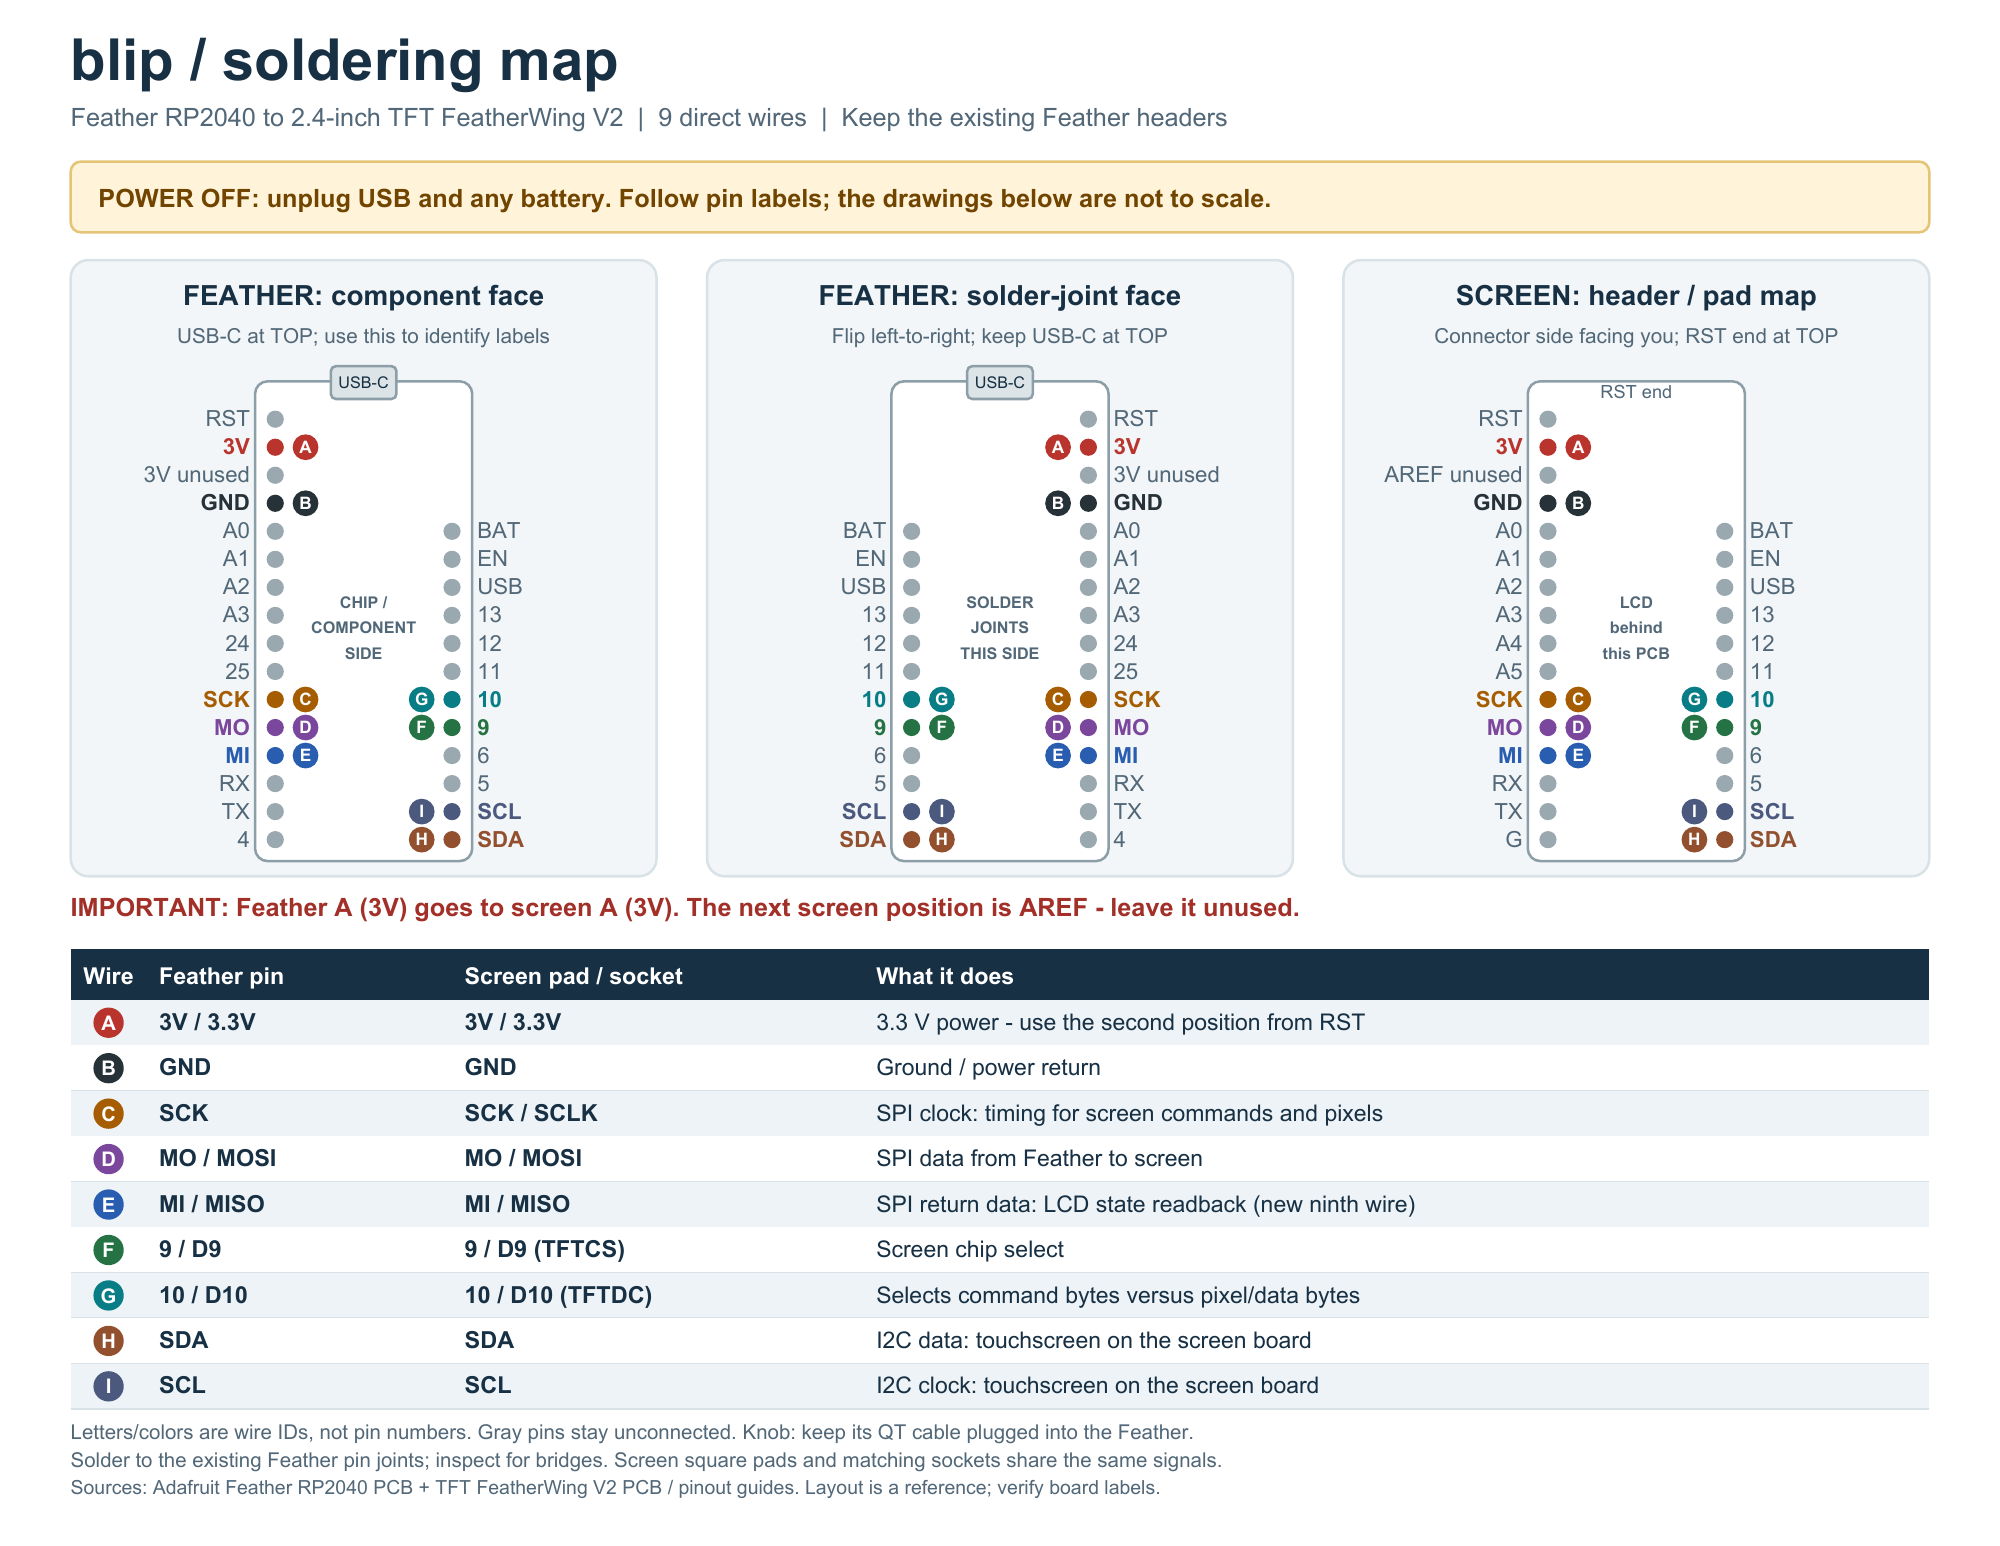
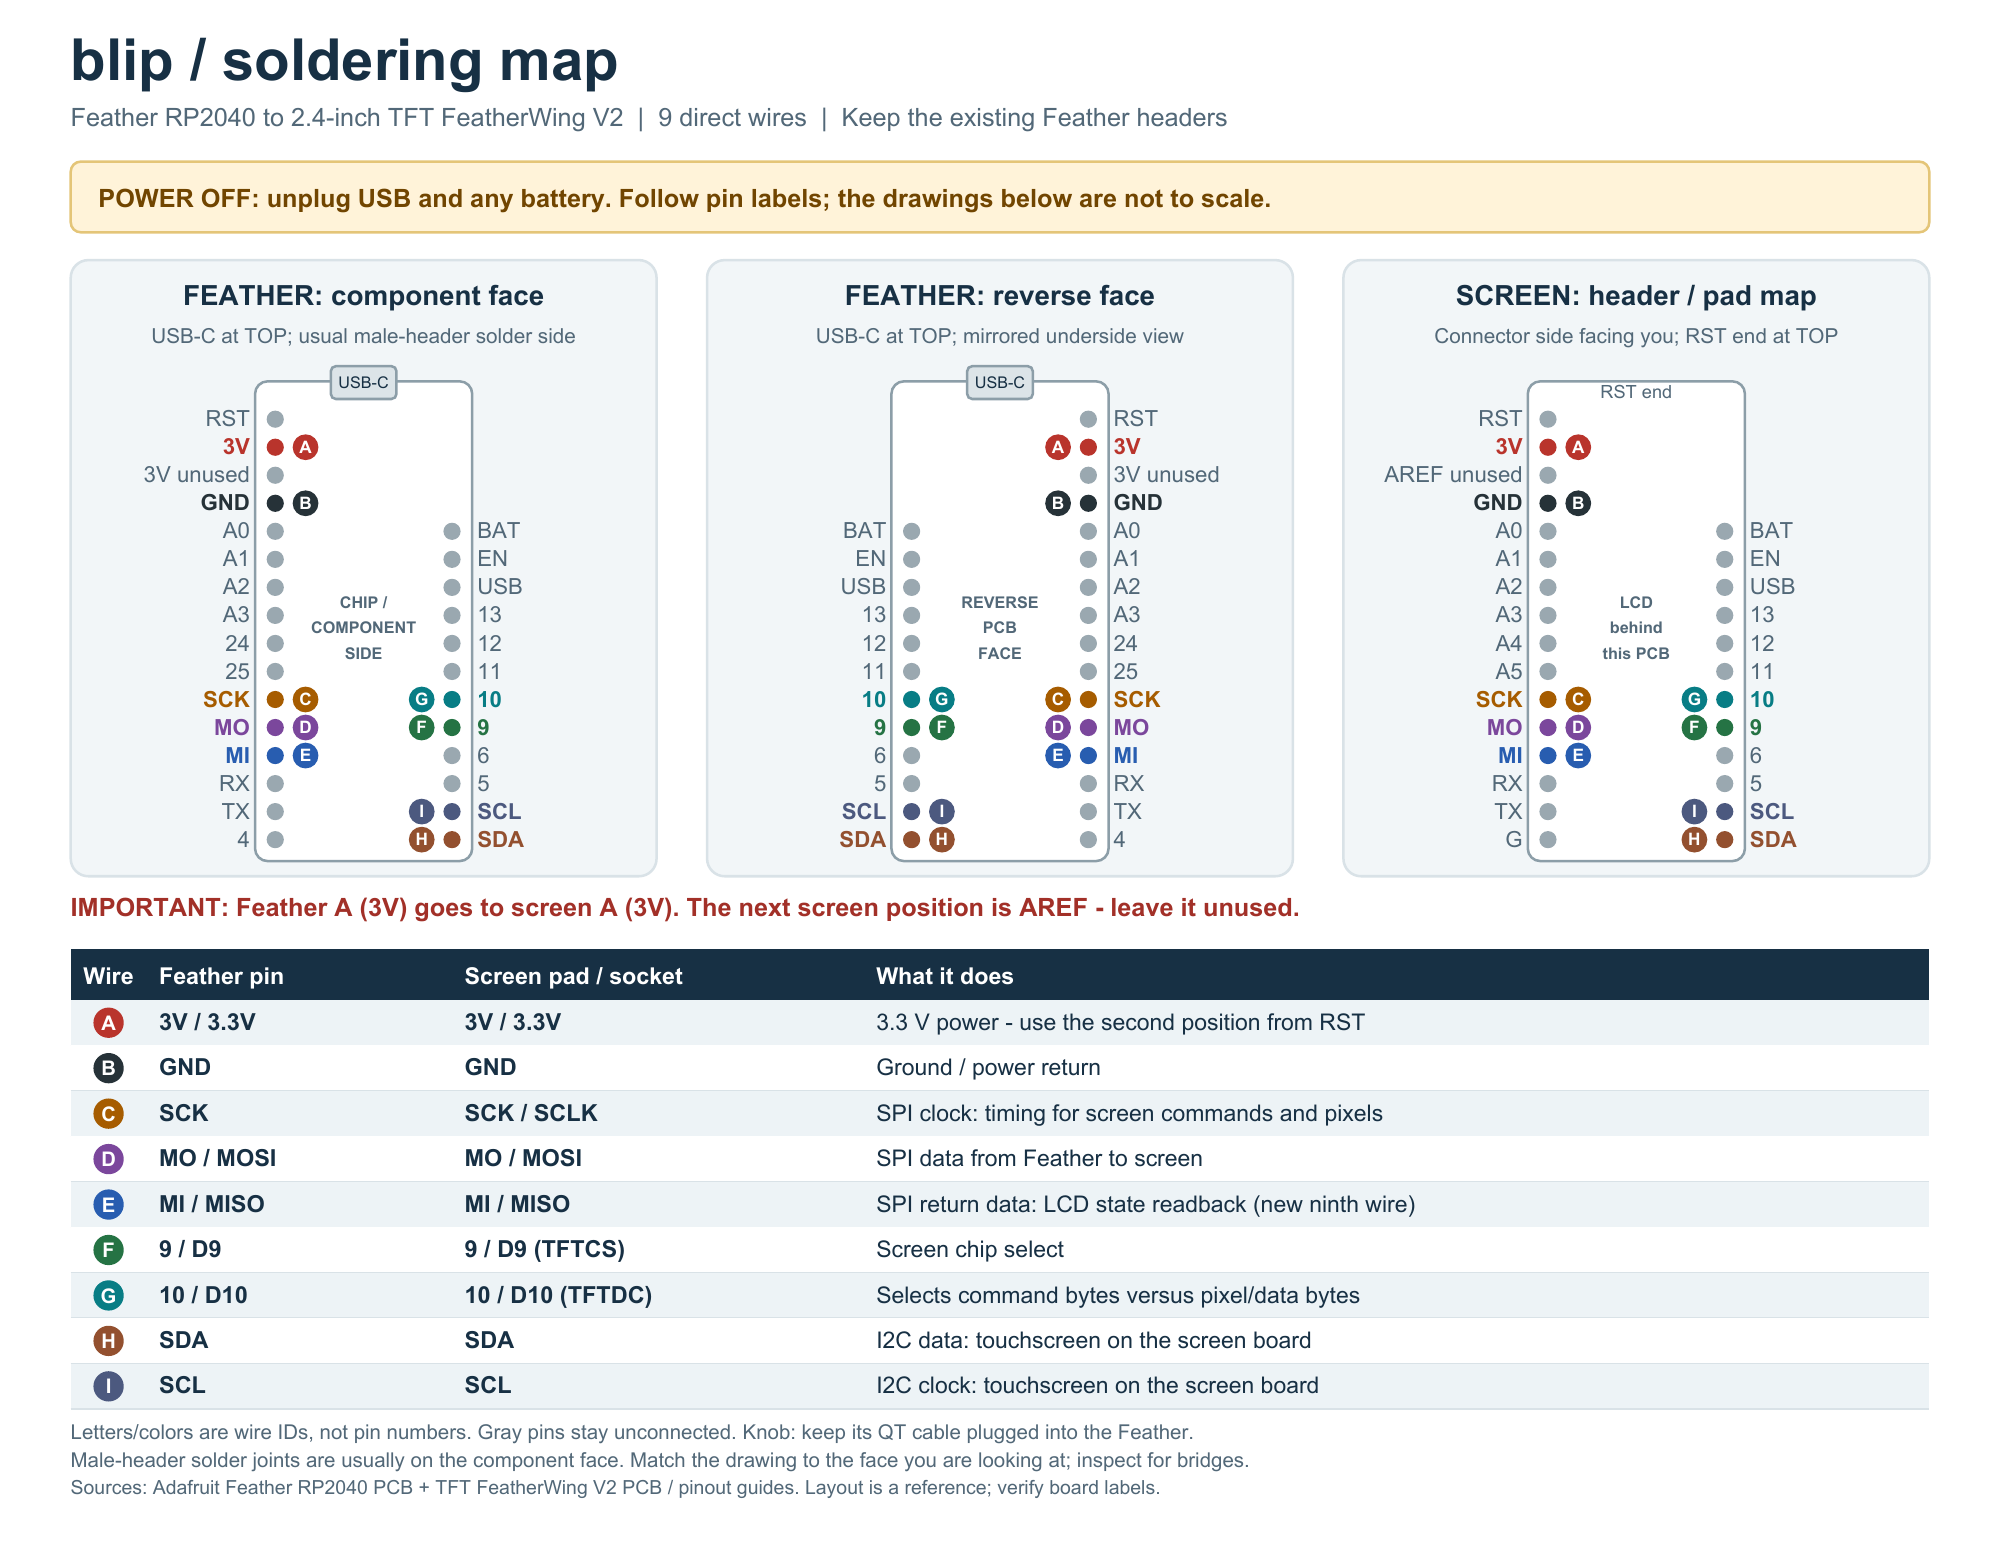
Clarify Feather component and reverse views on soldering sheet

diff --git a/scripts/render-wiring-sheet.py b/scripts/render-wiring-sheet.py
@@ -4,7 +4,7 @@
 Header order verified against Adafruit Eagle CAD:
 https://github.com/adafruit/Adafruit-Feather-RP2040-PCB
 https://github.com/adafruit/Adafruit-2.4-TFT-FeatherWing-PCB
-View transformations: USB/RST end up; the Feather solder face mirrors left/right.
+View transformations: USB/RST end up; the Feather reverse face mirrors left/right.
 """
 
 import os
@@ -111,7 +111,7 @@ def board(x, title, subtitle, mirror=False, wing=False):
             header_pin(left_x, top+i*pitch, label, wire, 'left')
         for i, (label, wire) in enumerate(right):
             header_pin(right_x, top+(i+4)*pitch, label, wire, 'right')
-    center_label = ['LCD', 'behind', 'this PCB'] if wing else (['SOLDER', 'JOINTS', 'THIS SIDE'] if mirror else ['CHIP /', 'COMPONENT', 'SIDE'])
+    center_label = ['LCD', 'behind', 'this PCB'] if wing else (['REVERSE', 'PCB', 'FACE'] if mirror else ['CHIP /', 'COMPONENT', 'SIDE'])
     for i, value in enumerate(center_label):
         text(cx, 241+i*10, value, 6.4, MUTED, True, 'middle')
 
@@ -122,8 +122,8 @@ text(28, 50, 'Feather RP2040 to 2.4-inch TFT FeatherWing V2  |  9 direct wires  
 rect(28, 64, 736, 28, '#fff3d9', '#e4c578', 4)
 text(39, 82, 'POWER OFF: unplug USB and any battery. Follow pin labels; the drawings below are not to scale.', 10, '#714500', True)
 
-board(28, 'FEATHER: component face', 'USB-C at TOP; use this to identify labels')
-board(280, 'FEATHER: solder-joint face', 'Flip left-to-right; keep USB-C at TOP', mirror=True)
+board(28, 'FEATHER: component face', 'USB-C at TOP; usual male-header solder side')
+board(280, 'FEATHER: reverse face', 'USB-C at TOP; mirrored underside view', mirror=True)
 board(532, 'SCREEN: header / pad map', 'Connector side facing you; RST end at TOP', wing=True)
 
 text(28, 363, 'IMPORTANT: Feather A (3V) goes to screen A (3V). The next screen position is AREF - leave it unused.', 10, '#a23028', True)
@@ -144,7 +144,7 @@ for i, (wire, feather, wing, purpose, color) in enumerate(wires):
     line(28, y+row_h, 764, y+row_h, '#d9e2e7')
 
 text(28, 570, 'Letters/colors are wire IDs, not pin numbers. Gray pins stay unconnected. Knob: keep its QT cable plugged into the Feather.', 8.1, MUTED)
-text(28, 581, 'Solder to the existing Feather pin joints; inspect for bridges. Screen square pads and matching sockets share the same signals.', 8.1, MUTED)
+text(28, 581, 'Male-header solder joints are usually on the component face. Match the drawing to the face you are looking at; inspect for bridges.', 8.1, MUTED)
 text(28, 592, 'Sources: Adafruit Feather RP2040 PCB + TFT FeatherWing V2 PCB / pinout guides. Layout is a reference; verify board labels.', 7.7, MUTED)
 
 # Output directories are created only when the generator is run.

diff --git a/docs/wiring.md b/docs/wiring.md
@@ -4,7 +4,10 @@
 
 ![Nine-wire soldering map](images/blip-soldering-map.svg)
 
-The middle drawing shows the Feather's solder-joint face. Keep USB-C at the top
+The first drawing shows the Feather's component face; with the usual male-header
+installation, this is also where the short pin tails and their solder joints are.
+The middle drawing shows the reverse face, not an assumed soldering face. Match
+the drawing to the actual face you are looking at. Keep USB-C at the top
 when flipping the board left-to-right. The screen drawing shows its header/pad
 side, with the RST end at the top; it is not a drawing of the LCD face. These are
 schematic pin maps, not board outlines or scale drawings.
